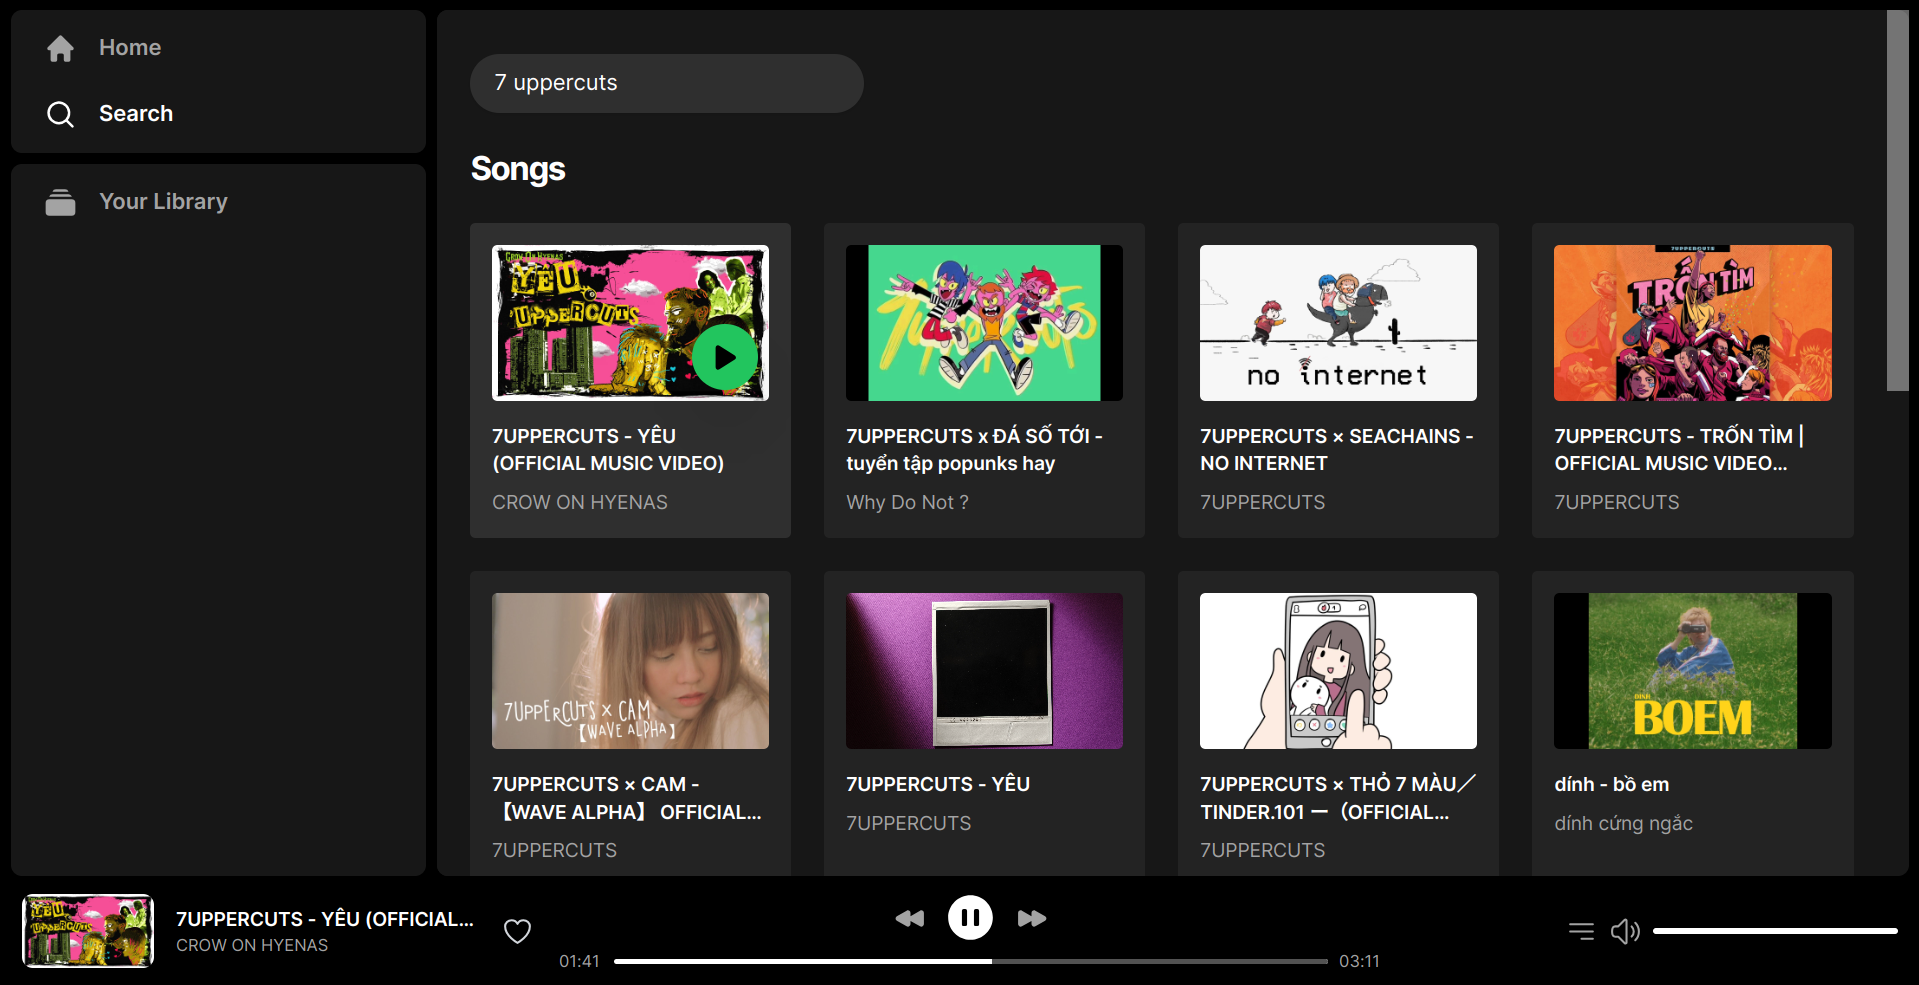
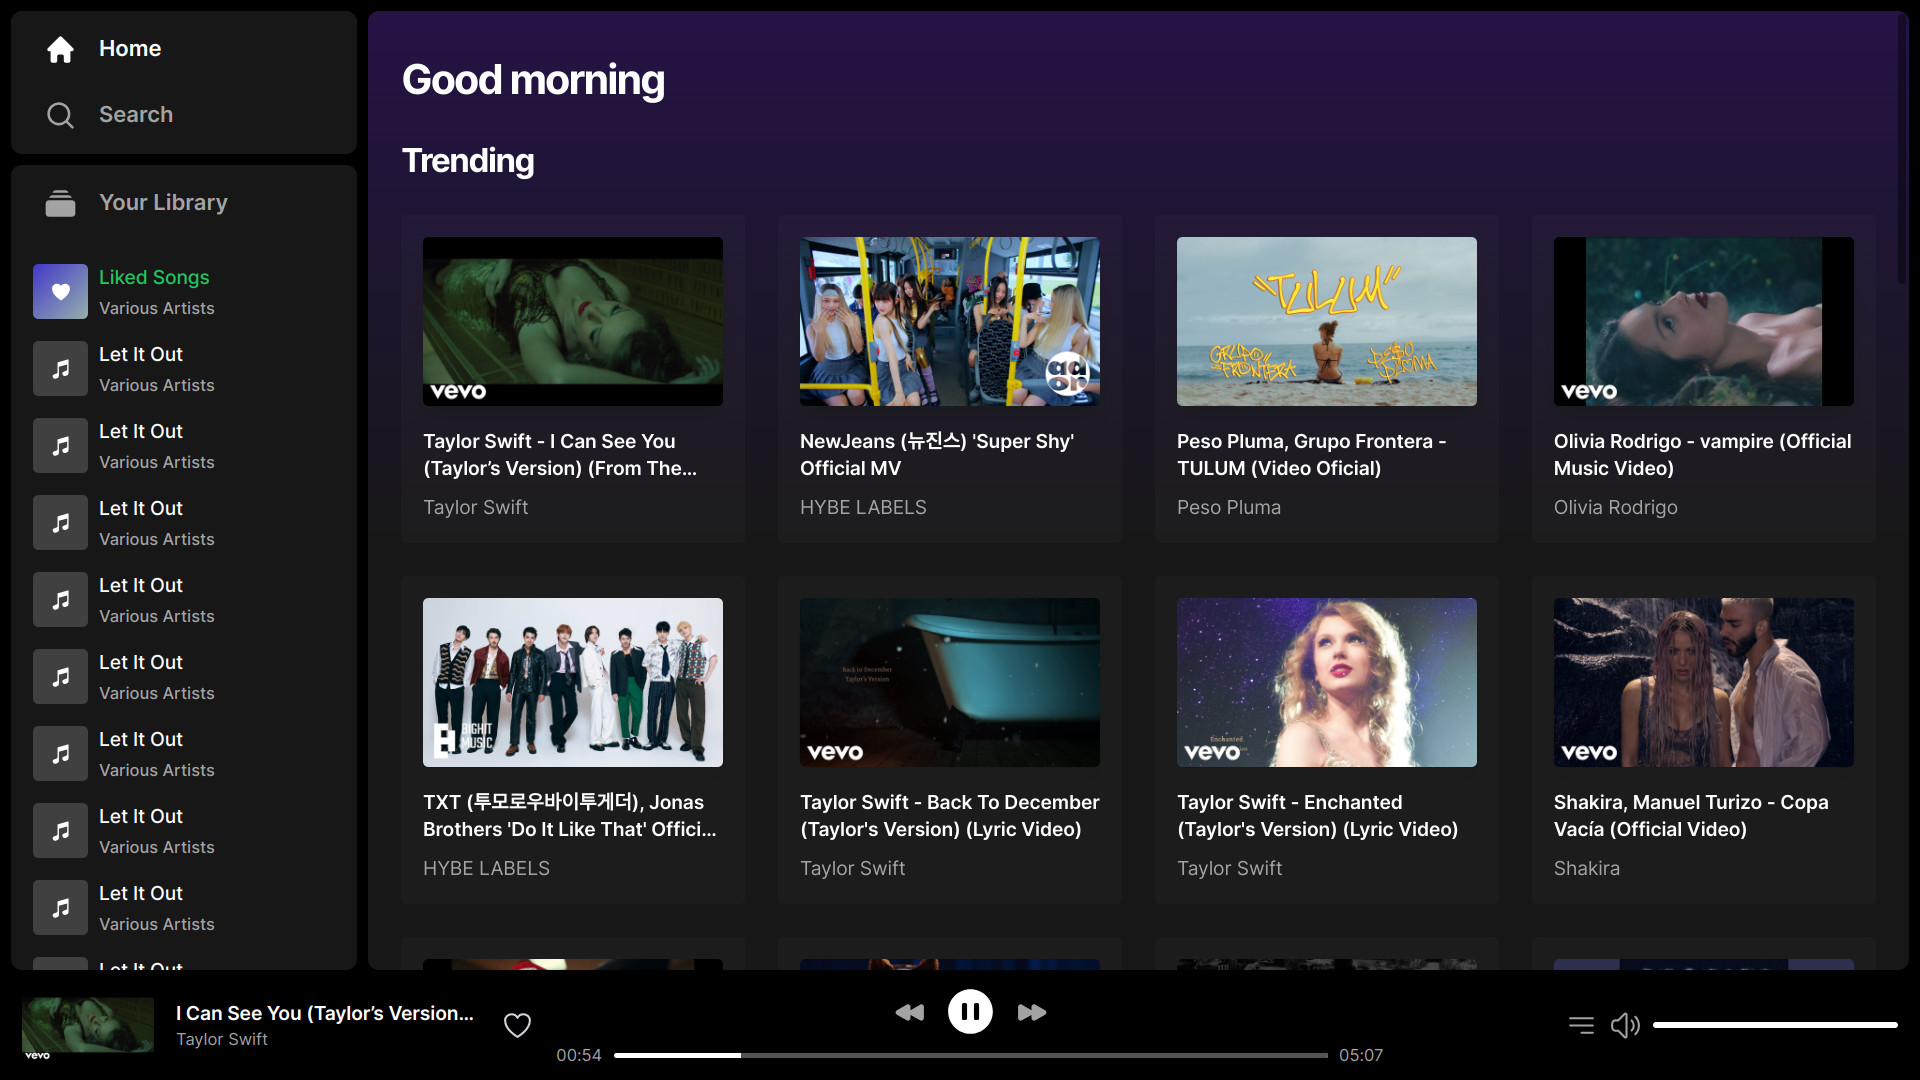
feat

diff --git a/app/root.tsx b/app/root.tsx
@@ -1,12 +1,10 @@
 import { HomeIcon, MagnifyingGlassIcon, RectangleStackIcon } from "@heroicons/react/20/solid";
-import { Bars3BottomRightIcon, HeartIcon, SpeakerWaveIcon } from "@heroicons/react/24/outline";
-import { HeartIcon as SolidHeartIcon } from "@heroicons/react/24/solid";
-import { BackwardIcon, EllipsisVerticalIcon, ForwardIcon, PauseCircleIcon, PlayCircleIcon } from "@heroicons/react/24/solid";
+import { Bars3BottomRightIcon, SpeakerWaveIcon } from "@heroicons/react/24/outline";
+import { BackwardIcon, EllipsisVerticalIcon, ForwardIcon, HeartIcon, MusicalNoteIcon, PauseCircleIcon, PlayCircleIcon } from "@heroicons/react/24/solid";
 import type {
-  ActionArgs,
   LinksFunction,
   LoaderArgs,
-  MetaFunction,
+  MetaFunction
 } from "@remix-run/node";
 import { json } from "@remix-run/node";
 import {
@@ -17,10 +15,8 @@ import {
   Outlet,
   Scripts,
   ScrollRestoration,
-  useActionData,
   useFetcher,
-  useLoaderData,
-  useSubmit,
+  useLoaderData
 } from "@remix-run/react";
 import CImage from "~/components/cimage";
 
@@ -30,26 +26,31 @@ import { ResizableBox } from 'react-resizable';
 
 
 
-
 import Player from "~/components/Player";
 
+
+import { useAtom } from 'jotai';
+import { atomWithStorage } from 'jotai/utils';
 
 
 
 import { createBrowserClient } from "@supabase/auth-helpers-remix";
+import ReactPlayer from "react-player";
+import HeartButton from "./components/HeartButton";
 import { getUser } from "./session.server";
 import tailwindStylesheetUrl from "./styles/tailwind.css";
-import ReactPlayer from "react-player";
-import VideoThumbnail from "./components/videoThumbnail";
-import { randomFetch } from "./utils";
-import HeartButton from "./components/HeartButton";
+import overlayscrollbars from 'overlayscrollbars/overlayscrollbars.css';
+import { OverlayScrollbarsComponent } from "overlayscrollbars-react";
+
+import ItemPlaylist from "./components/ItemPlaylist";
+import { t } from "./utils";
 
 export const meta: MetaFunction = () => {
   return { title: "Chomper" };
 };
 
 export const links: LinksFunction = () => {
-  return [{ rel: "stylesheet", href: tailwindStylesheetUrl }];
+  return [{ rel: "stylesheet", href: tailwindStylesheetUrl },{ rel: "stylesheet", href: overlayscrollbars }];
 };
 
 export async function loader({ request }: LoaderArgs) {
@@ -69,6 +70,7 @@ export async function loader({ request }: LoaderArgs) {
 
 // export const shouldRevalidate = () => false;
 
+const heartedVideosAtom = atomWithStorage('heartedVideos', [] as any[])
 
 export default function App() {
   const { env } = useLoaderData<typeof loader>()
@@ -76,6 +78,7 @@ export default function App() {
     createBrowserClient(env.SUPABASE_URL, env.SUPABASE_ANON_KEY)
   )
   const [playingVideoData, setPlayingVideoData] = useState<{ [key: string]: any } | null>();
+  const [heartedVideos, setHeartedVideos] = useAtom(heartedVideosAtom)
   
   const fetcher = useFetcher();
   // Walkround until https://github.com/remix-run/remix/discussions/2775 implemented
@@ -123,11 +126,13 @@ export default function App() {
   }, [fetcher.data])
 
   useEffect(() => {
-    console.log('debug root re-render')
-  }, [])
+    console.log('debug heartedVideos', heartedVideos)
+  }, [heartedVideos])
 
   const onHeartClick = async ({ videoId, hearted }: any) => {
     console.log('debug heart clicked', videoId, hearted)
+    const newHeartedVideos = hearted ? [...heartedVideos, videoId] : heartedVideos.filter(v => v != videoId);
+    setHeartedVideos(newHeartedVideos)
   }
 
   const onThumbnailClick = async ({ videoId, thumbnailUrl, title, author }: any) => {
@@ -187,6 +192,7 @@ export default function App() {
   })
 
   const playerRef = useRef<ReactPlayer | null>(null);
+  const [libraryHeaderShowShadow, setLibraryHeaderShowShadow] = useState(false);
 
   return (
     <html lang="en" className="h-full scrollbar-none">
@@ -197,7 +203,7 @@ export default function App() {
         <Links />
       </head>
       <body className="h-full font-inter">
-
+      
         <div className="min-h-screen bg-black flex flex-col">
           {/* <p className="bg-purple-400 px-4 py-2">{JSON.stringify(actionData?.video)}</p> */}
           {/* <p className="bg-green-400 px-4 py-2">{JSON.stringify(playingVideoData)}</p> */}
@@ -220,7 +226,8 @@ export default function App() {
               axis="x"
             >
               <div className="
-          overflow-y-hidden hover:overflow-y-auto scrollbar scrollbar-thumb-white/40 hover:scrollbar-thumb-white/60 scrollbar-track-transparent
+          overflow-y-hidden 
+          
           flex-grow
           flex
           flex-col
@@ -246,32 +253,62 @@ export default function App() {
                   </NavLink>
                 </div>
 
-                <div className="bg-neutral-900 rounded-lg px-6 py-4 flex-1">
-                  <div className="flex items-center text-neutral-400 space-x-4">
+                <div className="bg-neutral-900 rounded-lg flex-1 flex
+                flex-col
+                overflow-y-hidden 
+                ">
+
+                  <div className={"flex items-center text-neutral-400 space-x-4 px-6 flex-none py-4 "
+                    + t(libraryHeaderShowShadow, 'shadow-lg shadow-black')
+                  }>
                     <RectangleStackIcon className="w-6 h-6" />
                     <span className="font-semibold">Your Library</span>
                   </div>
+                  <OverlayScrollbarsComponent
+                    defer
+                    element="div"
+                    options={{ scrollbars: { autoHide: 'leave', autoHideDelay: 0 } }}
+                    className="px-2 flex-1 py-2"
+                    events={{ scroll: (instance, event) => { 
+                      const { viewport } = instance.elements();
+                      const { scrollLeft, scrollTop } = viewport; 
+                      setLibraryHeaderShowShadow(scrollTop > 0)
+                   } }}
+                    >
+                  
+                    <ItemPlaylist type="likedsongs"/>
+                    {
+                      [0, 1,2,3,4,5,6,7,8,9].map(x => {
+                        return <ItemPlaylist key={x}/>
+                      })
+                    }
+                  </OverlayScrollbarsComponent>
+
                 </div>
               </div>
             </ResizableBox>
-            <div className="
-          bg-neutral-900 
-            overflow-y-auto scrollbar scrollbar-thumb-white/40 hover:scrollbar-thumb-white/60 scrollbar-track-transparent
-            overflow-x-hidden
-            w-full
-            rounded-lg
-            ">
 
 
+
+            
+            <OverlayScrollbarsComponent
+              defer
+              element="div"
+              options={{ scrollbars: { autoHide: 'leave', autoHideDelay: 0 } }}
+              className="
+                bg-neutral-900 
+                overflow-y-auto
+                overflow-x-hidden
+                w-full
+                rounded-lg
+              ">
               <Outlet context={{ supabase, env, onThumbnailClick }} />
 
 
 
-            </div>
+              </OverlayScrollbarsComponent>
+            
 
-            {/* <div className=" bg-neutral-900 overflow-y-auto rounded-lg">
-          <p>One</p>
-        </div> */}
           </div>
 
           <div className="flex-none bg-black h-20 grid grid-cols-11 px-4 space-x-4">
@@ -488,14 +525,12 @@ export default function App() {
           </div>
         </div>
 
-
-
-
         <ScrollRestoration />
         <script async src="https://analytics.umami.is/script.js" data-website-id="c5be99c2-ff1e-4af1-9a2e-99f571f2d804" data-domains="chomper.tri" />
         <Scripts />
         <LiveReload />
       </body>
+      
     </html>
   );
 }

diff --git a/app/components/videoThumbnail.tsx b/app/components/videoThumbnail.tsx
@@ -4,7 +4,7 @@ import CImage from "./cimage";
 
 function VideoThumbnail({ url, title, author, videoId, onThumbnailClick }: any) {
     return <div
-        className="w-full p-4 bg-white/5 hover:bg-white/10 rounded transition-all duration-150
+        className="w-full p-4 bg-white/2 hover:bg-white/8 rounded transition-all duration-150
       cursor-pointer
       group
       "
@@ -19,7 +19,7 @@ function VideoThumbnail({ url, title, author, videoId, onThumbnailClick }: any) 
     >
         <div className="relative">
             <CImage
-                className="object-cover aspect-video w-full rounded"
+                className="object-cover aspect-video w-full rounded shadow-lg shadow-neutral-900/50"
                 src={url}
                 widthLargerThan={960}
                 heightLargerThan={640}
@@ -29,7 +29,6 @@ function VideoThumbnail({ url, title, author, videoId, onThumbnailClick }: any) 
                 absolute
                 hover:scale-105
                 bottom-2 right-2
-                drop-shadow-2xl 
                 ">
                 <button className="p-3 
                     translate-y-2 opacity-0 
@@ -38,6 +37,7 @@ function VideoThumbnail({ url, title, author, videoId, onThumbnailClick }: any) 
                     group-hover:opacity-100 group-hover:translate-y-0 
                     transition-all duration-300
                     rounded-full
+                    shadow-lg shadow-neutral-900/50
                 ">
                     <PlayIcon className="w-6 h-6 text-black" />
                 </button>

diff --git a/app/components/ItemPlaylist.tsx b/app/components/ItemPlaylist.tsx
@@ -1,0 +1,38 @@
+import { HeartIcon, MusicalNoteIcon } from "@heroicons/react/24/solid";
+import { t } from "~/utils";
+
+export default function ItemPlaylist({type}: any){
+    const isLikedSongs = type == 'likedsongs';
+    
+
+    return  <div className="flex items-center space-x-2 px-2 py-2 hover:bg-white/2 rounded-lg cursor-pointer">
+    <div className={
+        'w-10 h-10 bg-neutral-700 rounded shadow-lg shadow-neutral-900/50 flex items-center justify-center' 
+        + t(isLikedSongs, 'bg-gradient-to-br from-indigo-700 to-teal-100/60')
+    }>
+        {
+            isLikedSongs ? 
+            <HeartIcon className="w-4 h-4 text-white" /> : 
+            <MusicalNoteIcon className="w-4 h-4 text-white" />
+        }
+    </div>
+
+    <div className="space-y-1">
+        
+        <p className={
+            'font-medium text-sm'
+            + t(isLikedSongs, 'text-green-500', 'text-white')
+        }>
+            {
+                isLikedSongs ? 
+                'Liked Songs' : 
+                'Let It Out'
+            }
+        </p>
+      
+        <p className="text-neutral-400 font-medium text-xs">Various Artists</p>
+    </div>
+  </div>
+}
+
+

diff --git a/tailwind.config.js b/tailwind.config.js
@@ -1,14 +1,20 @@
+// const { scrollbarGutter, scrollbarWidth, scrollbarColor } = require('tailwind-scrollbar-utilities');
 
 module.exports = {
   content: ["./app/**/*.{ts,tsx,jsx,js}"],
   theme: {
-    extend: {},
+    extend: {
+      opacity: [...new Array(100).keys()].reduce((acc, key) => (acc[key] = 0.01*key, acc), {})
+    },
   },
   plugins: [
     require('tailwindcss-font-inter'),
     require('@tailwindcss/line-clamp'),
-    require('tailwind-scrollbar')({ nocompatible: true }),
-    require('@tailwindcss/container-queries')
+    // require('tailwind-scrollbar')({ nocompatible: true }),
+    require('@tailwindcss/container-queries'),
+    // scrollbarGutter(), // no options to configure
+    // scrollbarWidth(), // no options to configure
+    // scrollbarColor(), // no options to configure
 ],
   future: {
     hoverOnlyWhenSupported: true,

diff --git a/app/routes/search.tsx b/app/routes/search.tsx
@@ -45,10 +45,15 @@ export default function SearchPage() {
             border-white
             border-opacity-0
             focus:border-opacity-100
-            bg-white/10 hover:bg-white/20 shadow  text-white px-4 py-2 rounded-full
-            placeholder:text-neutral-400
+            bg-white/8 hover:bg-white/12 
+            hover:outline hover:outline-1 hover:outline-neutral-600
+            shadow shadow-neutral-900/50 text-white px-5 py-3.5 rounded-full
+            placeholder:text-neutral-500
+            text-xs
+            font-medium
+            w-80
             "
-                placeholder="Search"
+                placeholder="What do you want to listen to?"
             />
         </Form>
 

diff --git a/app/utils.ts b/app/utils.ts
@@ -141,7 +141,7 @@ export const SERVERS = [
   // 'https://inv.in.projectsegfau.lt',
   'https://inv.makerlab.tech',
   'https://invidious.slipfox.xyz',
-  'https://inv.pistasjis.net',
+  // 'https://inv.pistasjis.net',
   'https://par1.iv.ggtyler.dev',
   'https://iv.melmac.space',
   // 'https://invidious.lunar.icu',
@@ -154,4 +154,8 @@ export const randomFetch = (input: string) => {
   const inp = `${randomServer}/${input}`
   console.log('debug randomFetch', inp)
   return fetch(inp)
+}
+
+export const t = (cond: boolean, classNamesTrue: string, classNamesFalse = '') => {
+  return cond ? ` ${classNamesTrue} ` : ` ${classNamesFalse} `
 }

diff --git a/app/routes/search/index.tsx b/app/routes/search/index.tsx
@@ -1,5 +1,5 @@
 export default function SearchIndexPage() {
     return <div>
-        <p> Index </p>
+        {/* <p> Suggested </p> */}
     </div>
 }
